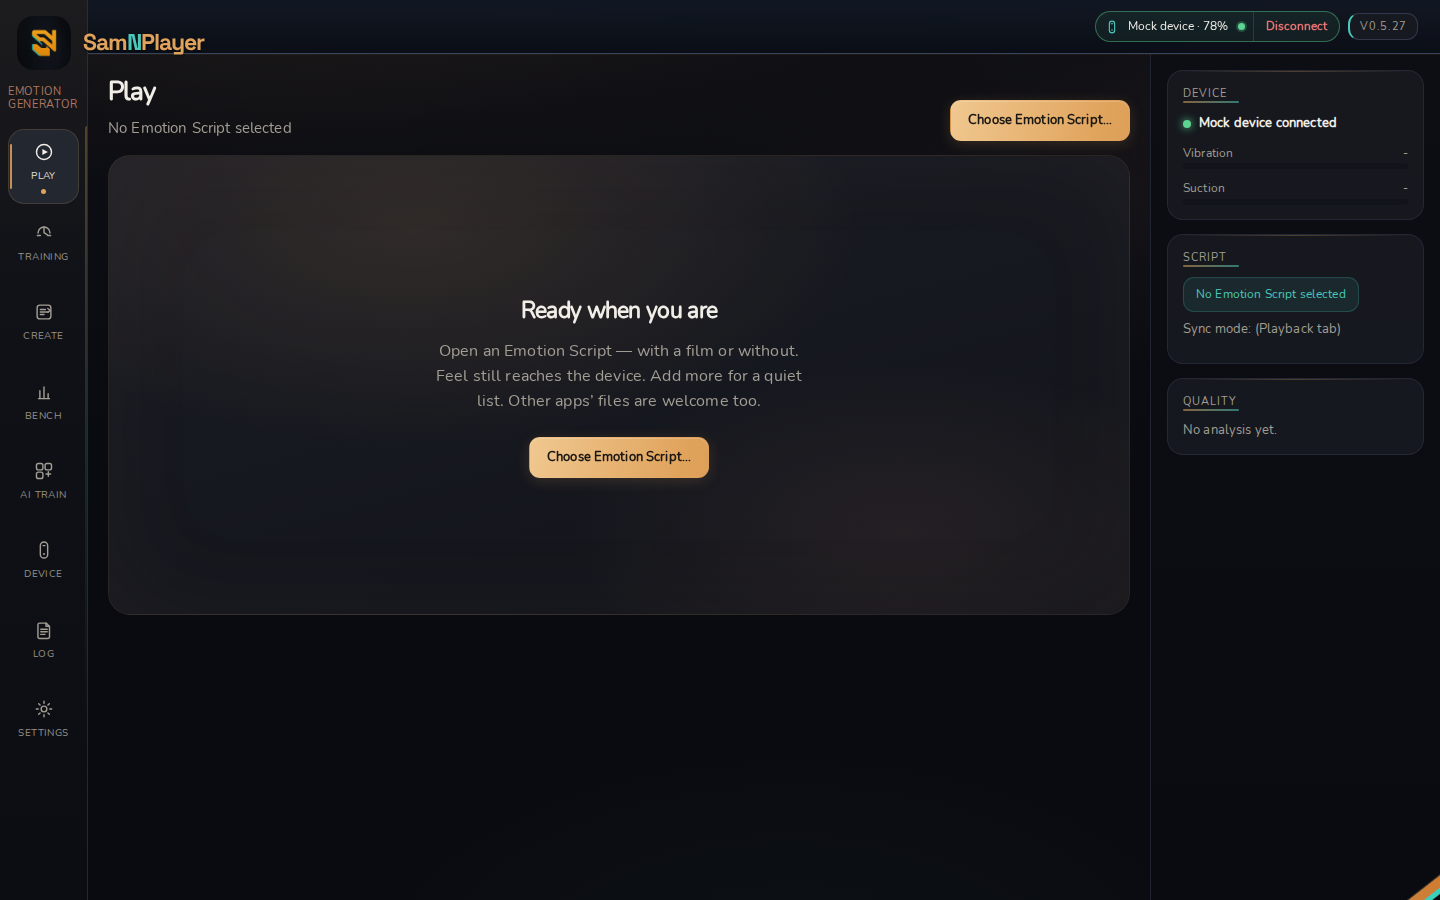
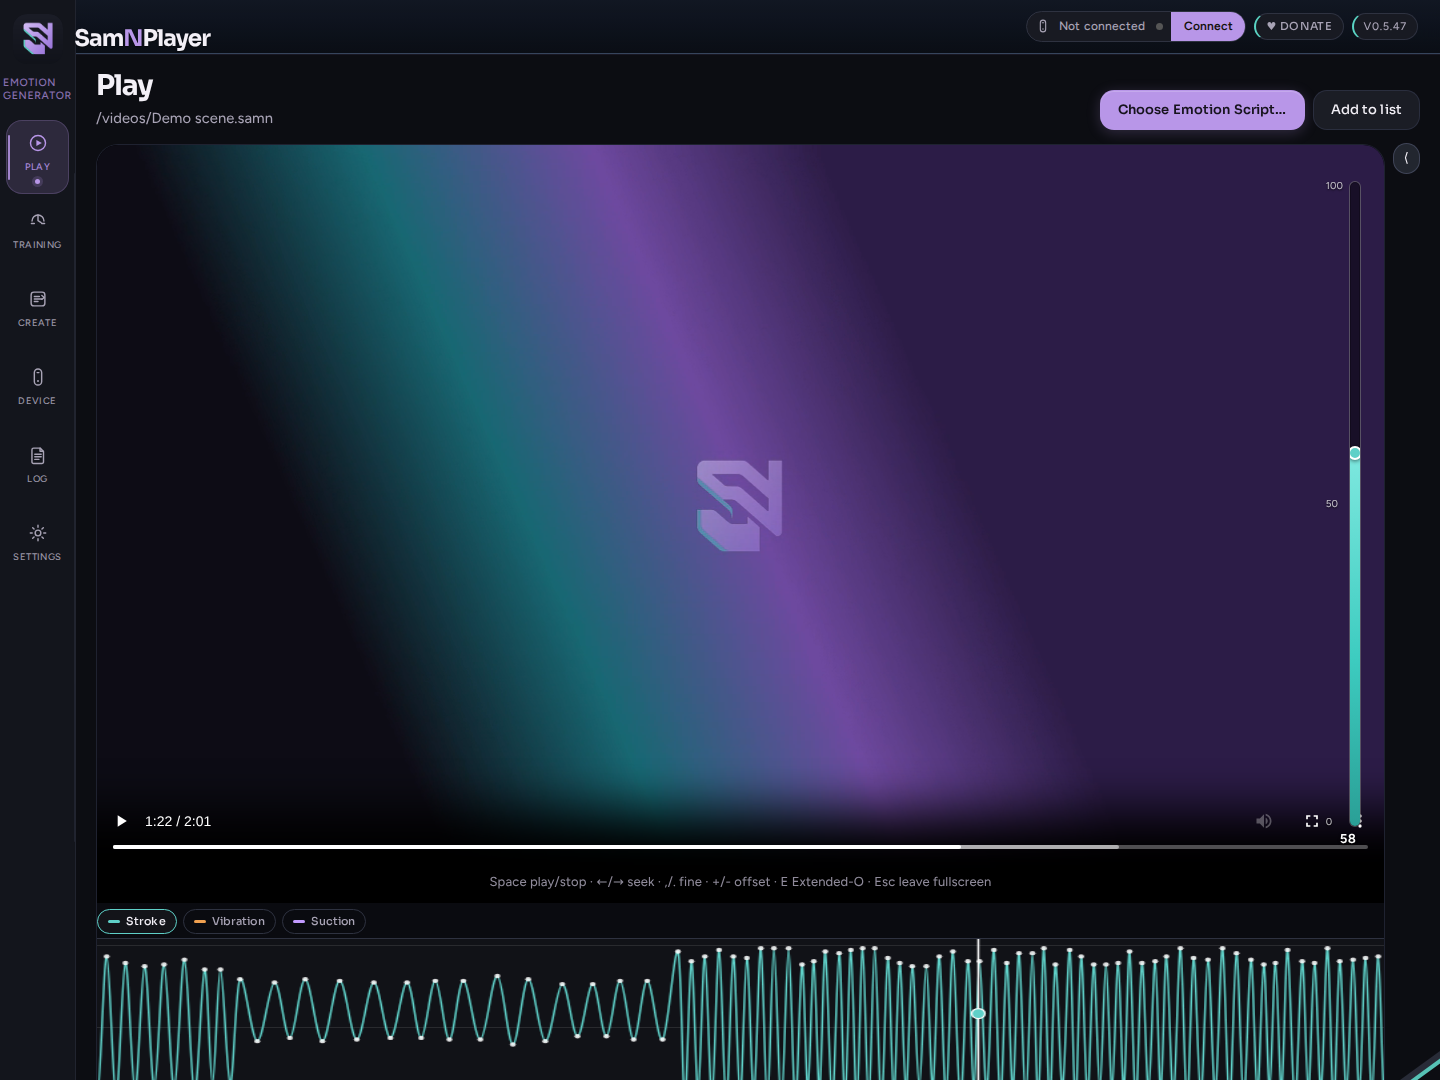
docs: refresh README, website and screenshots for the lilac GUI
- New 1440×1080 screenshots of the current GUI (Play with multi-axis
  lanes, focus mode, Create, Device, Settings/About) in docs/media and
  website/media; same file names, plus gui-multiaxis/gui-device/gui-about.
  Neutral demo video and synthetic script; no adult content.
- Lilac logo and wordmark in docs/media.
- README: tagline Play · Create · Feel, new screenshot section, Play
  bullets (big video, multi-axis), studio-only items marked, freeware.
- Website: lilac palette (was amber), title/hero copy, new screenshots.
- CHANGELOG: Play layout and multi-axis view; board: RepoRefresh.

Claude-Session: https://claude.ai/code/session_01PV7nAQSr9gAUfJHBzb1bVw

diff --git a/website/index.html b/website/index.html
@@ -3,11 +3,11 @@
 <head>
   <meta charset="utf-8" />
   <meta name="viewport" content="width=device-width, initial-scale=1" />
-  <title>SamNPlayer — Generate · Play · Train</title>
-  <meta name="description" content="Local desktop app for .samn / .funscript and SVAKOM Sam Neo 2. Play, generate, and train in one ~13 MB native window — no Electron, no cloud AI. Free — supported by donations." />
+  <title>SamNPlayer — Play · Create · Feel</title>
+  <meta name="description" content="Local desktop app for .samn / .funscript and SVAKOM Sam Neo 2. Play and create in one ~13 MB native window — no Electron, no cloud AI. Free — supported by donations." />
   <meta property="og:title" content="SamNPlayer" />
-  <meta property="og:description" content="Generate · Play · Train — local desktop for Sam Neo 2 and Funscript. Free — supported by donations." />
-  <meta property="og:image" content="media/gui-player-rail.png" />
+  <meta property="og:description" content="Play · Create · Feel — free local desktop for Sam Neo 2 and Funscript. Free — supported by donations." />
+  <meta property="og:image" content="media/gui-playback.png" />
   <link rel="icon" type="image/png" href="media/logo.png" />
   <link rel="stylesheet" href="styles.css" />
 </head>
@@ -39,7 +39,7 @@
           <img src="media/logo.png" alt="" width="72" height="72" />
           <span class="wordmark wordmark-lg"><span class="wm-sam">Sam</span><span class="wm-n">N</span><span class="wm-player">Player</span></span>
         </p>
-        <h1 class="reveal delay-1">Generate · Play · Train</h1>
+        <h1 class="reveal delay-1">Play · Create · Feel</h1>
         <p class="lede reveal delay-2">
           One local desktop app for <code>.samn</code> / <code>.funscript</code>
           and SVAKOM Sam Neo&nbsp;2 — measured scripts, first-class device control,
@@ -65,7 +65,7 @@
         </div>
         <div>
           <dt>Scope</dt>
-          <dd>Play + generate + device + training in one window</dd>
+          <dd>Play + create + device + stamina training in one window</dd>
         </div>
         <div>
           <dt>AI</dt>
@@ -81,33 +81,43 @@
         </div>
         <div>
           <dt>Quality</dt>
-          <dd>Quality Doctor, Script Doctor, golden-clip benchmark — numbers before claims</dd>
+          <dd>Quality Doctor and Script Doctor — numbers before claims</dd>
         </div>
       </dl>
     </section>
 
     <section id="product" class="section product">
       <h2>What you get</h2>
-      <p class="section-lede">Three jobs. One composition. English UI.</p>
+      <p class="section-lede">Big video, every axis in view, one calm window. English UI.</p>
 
       <figure class="shot reveal">
-        <img src="media/gui-playback.png" alt="Playback tab with video sync, heatmap, and live device meters" width="1200" height="675" loading="lazy" />
-        <figcaption>Playback — video sync or script-alone; heatmap, curve, contact vibration, playlist</figcaption>
+        <img src="media/gui-playback.png" alt="Play tab — big video, tools column, stroke curve with vibration and suction lanes" width="1440" height="1080" loading="lazy" />
+        <figcaption>Play — big video, tools in a collapsible column, stroke curve with the feel channels underneath</figcaption>
       </figure>
 
       <figure class="shot reveal">
-        <img src="media/gui-generator.png" alt="Generator tab with ROI workflow and Quality Doctor" width="1200" height="675" loading="lazy" />
-        <figcaption>Generate — mark ROI(s), pick profile / backend, Quality Doctor on the rail</figcaption>
+        <img src="media/gui-multiaxis.png" alt="Multi-axis view with Stroke, Vibration and Suction chips and colour-coded lanes" width="982" height="351" loading="lazy" />
+        <figcaption>Multi-axis view — one colour per channel; click a chip or lane to show and edit that axis</figcaption>
+      </figure>
+
+      <figure class="shot reveal">
+        <img src="media/gui-player-rail.png" alt="Play with the tools folded away — full-width video" width="1440" height="1080" loading="lazy" />
+        <figcaption>Focus mode — press T to fold the tools away; video and curve take the full width</figcaption>
+      </figure>
+
+      <figure class="shot reveal">
+        <img src="media/gui-generator.png" alt="Create tab — step-by-step Emotion Script creation" width="1440" height="1080" loading="lazy" />
+        <figcaption>Create — choose a video, find the tip, pick the feel; classical tracking, no AI install needed</figcaption>
       </figure>
 
       <figure class="shot reveal">
         <img src="media/gui-scenemap-marks.png" alt="Scene map rhythm heatmap with exclude mark" width="1200" height="900" loading="lazy" />
-        <figcaption>v0.5.31 — Scene map heatmap + exclude mark (Advanced)</figcaption>
+        <figcaption>Scene map — rhythm heatmap + exclude mark (Advanced)</figcaption>
       </figure>
 
       <figure class="shot reveal">
-        <img src="media/gui-semantic-target.png" alt="Strict AI body-point selector" width="1200" height="675" loading="lazy" />
-        <figcaption>v0.5.31 — Semantic target: expected body point, Apply required</figcaption>
+        <img src="media/gui-about.png" alt="Settings — licence, donations and About SamNPlayer" width="1440" height="1080" loading="lazy" />
+        <figcaption>Settings — EULA, voluntary donations, About</figcaption>
       </figure>
     </section>
 

diff --git a/website/styles.css b/website/styles.css
@@ -5,11 +5,11 @@
   --border: #2a3548;
   --text: #f2f5fa;
   --text-dim: #93a0b5;
-  --accent: #f3b23c;
-  --accent-hover: #ffc857;
+  --accent: #b896e8;
+  --accent-hover: #cbb0f2;
   --teal: #2fd4c4;
   --teal-soft: rgba(47, 212, 196, 0.14);
-  --accent-soft: rgba(243, 178, 60, 0.16);
+  --accent-soft: rgba(184, 150, 232, 0.16);
   --font: "Space Grotesk", "Segoe UI", system-ui, sans-serif;
   --max: 1080px;
   --ease: cubic-bezier(0.22, 1, 0.36, 1);
@@ -49,7 +49,7 @@ body {
   font-weight: 400;
   color: var(--text);
   background:
-    radial-gradient(900px 480px at 12% -10%, rgba(243, 178, 60, 0.12), transparent 55%),
+    radial-gradient(900px 480px at 12% -10%, rgba(184, 150, 232, 0.12), transparent 55%),
     radial-gradient(720px 420px at 100% 8%, rgba(47, 212, 196, 0.09), transparent 50%),
     linear-gradient(180deg, #0a1018 0%, var(--bg) 40%);
   line-height: 1.55;
@@ -80,8 +80,8 @@ code {
   letter-spacing: -0.02em;
   line-height: 1;
 }
-.wm-sam { color: var(--accent); }
-.wm-n { color: var(--teal); }
+.wm-sam { color: var(--text); }
+.wm-n { color: var(--accent); }
 .wm-player { color: var(--text); }
 .wordmark-lg { font-size: clamp(2rem, 5vw, 3.25rem); }
 .wordmark-sm { font-size: 1rem; }
@@ -225,8 +225,8 @@ code {
 }
 .btn:hover { transform: translateY(-1px); }
 .btn-primary {
-  background: linear-gradient(90deg, var(--accent), #ff8c28 55%, var(--teal));
-  color: #111;
+  background: var(--accent);
+  color: #140f1f;
 }
 .btn-primary:hover { filter: brightness(1.06); }
 .btn-ghost {

diff --git a/README.md b/README.md
@@ -5,7 +5,7 @@
 <h1 align="center">SamNPlayer</h1>
 
 <p align="center">
-  <strong>Generate · Play · Train</strong> — local desktop app for
+  <strong>Play · Create · Feel</strong> — free local desktop app for
   <code>.samn</code> / <code>.funscript</code> and SVAKOM Sam Neo&nbsp;2 / Neo&nbsp;2&nbsp;Pro
 </p>
 
@@ -100,22 +100,36 @@ not needed, it stays out.
 ## Screenshots
 
 <p align="center">
-  <img src="docs/media/gui-generator.png" alt="Generator tab — ROI workflow, device rail" width="900" />
+  <img src="docs/media/gui-playback.png" alt="Play tab — big video, tools column, stroke curve with vibration and suction lanes" width="900" />
   <br />
-  <em>Generate</em> — mark tip / contact, pick profile, Quality Doctor on the rail
+  <em>Play</em> — big video, tools in a collapsible column, stroke curve with the feel channels underneath
 </p>
 
 <p align="center">
-  <img src="docs/media/gui-playback.png" alt="Playback tab with funscript curve" width="900" />
+  <img src="docs/media/gui-multiaxis.png" alt="Multi-axis view — Stroke, Vibration and Suction chips, colour-coded lanes" width="900" />
   <br />
-  <em>Playback</em> — script-alone or video-synced; heatmap, contact vibration, playlist
+  <em>Multi-axis view</em> — one colour per channel; click a chip or a lane to show and edit that axis, the stroke stays as a faint guide
 </p>
 
 <p align="center">
-  <img src="docs/media/gui-player-rail.png" alt="Player layout with live vibration and suction meters" width="900" />
+  <img src="docs/media/gui-player-rail.png" alt="Play with the tools column collapsed — full-width video" width="900" />
   <br />
-  Live device meters, soft, Extended-O — curve and device keep running even without a film
+  <em>Focus mode</em> — press <kbd>T</kbd> (or ⟩) to fold the tools away; video and curve take the full width
 </p>
+
+<p align="center">
+  <img src="docs/media/gui-generator.png" alt="Create tab — step-by-step Emotion Script creation" width="900" />
+  <br />
+  <em>Create</em> — choose a video, find the tip, pick the feel, create — classical tracking, no AI install needed
+</p>
+
+<p align="center">
+  <img src="docs/media/gui-device.png" alt="Device tab — Sam Neo 2 connection and diagnostics" width="440" />
+  <img src="docs/media/gui-about.png" alt="Settings — licence, donations and About SamNPlayer" width="440" />
+  <br />
+  <em>Device</em> — BLE / Intiface / Mock with diagnostics · <em>Settings</em> — EULA, donations, About
+</p>
+
 ---
 
 ## What you get
@@ -123,6 +137,8 @@ not needed, it stays out.
 ### Playback
 - Real `<video>` in-app (no separate VLC window); optional **video-position sync** to the device
 - Heatmap, curve editor, chapters, O-markers, Script Doctor
+- **Big video** like FunGen2 — tools sit in a sticky right column that folds away with <kbd>T</kbd>
+- **Multi-axis view** — stroke / vibration / suction in one colour each, with clickable lanes under the curve
 - Hover **tooltips** (time + value) on curve and heatmap
 - Playlist with **shuffle** and **repeat**
 - Script-alone mode when there is no video yet
@@ -134,8 +150,8 @@ not needed, it stays out.
 - **Scene map** (Advanced): quick rhythm heatmap + exclude / source / region marks
 - Optional **local AI ROI** (ONNX) — strict expected body point, Apply required
 - Local **Go profilemodel** suggestions from Create labels (suggest-only)
-- Quality Doctor + human accept/reject → optional learned quality model
-- Golden-clip benchmark tab for repeatable FunGen comparisons
+- Quality Doctor + human accept/reject
+- *Studio build only:* learned quality model, AI training, golden-clip benchmark ([editions](docs/EDITIONS.md))
 
 ### Device & training
 - BLE, Intiface/Buttplug, and Mock transports
@@ -143,7 +159,8 @@ not needed, it stays out.
 - Training tab: stop-start / plateau, multi-phase scripts, live dual ring + clip motion, session history
 
 ### Desktop craft
-- Emotion look (Sora / Figtree), English product language
+- Calm lilac look, English product language
+- Freeware with EULA — no licence key; voluntary donations keep the project alive
 - Window min-size, ARIA tabs, ERROR toast → Log
 - Auto-update from GitHub Releases with checksum verification
 

diff --git a/docs/AGENT_COORD.md b/docs/AGENT_COORD.md
@@ -109,7 +109,8 @@ next big theme. Prefer cleanup + focus over parallel feature sprawl.
 | Branding | Claude | #469 | **Announced 11 Oct, before work (Owner: say first so ChatGPT can help):** SN logo B redrawn as vector in lilac + teal edge → `build/appicon.png` 1024, `build/windows/icon.ico` 16–256, `frontend/src/assets/images/logo-universal.png`, `website/media/logo.png`; calmer palette in `style.css` (one accent lilac, flat surfaces instead of most of the 61 gradients, single-colour wordmark, teal/feel only for data); new Settings **About SamNPlayer** (logo, version, edition, EULA/notices, donate, partner graphic SN 🤝 figures of the "Sex for him" site, link once Owner sends the URL). Files touched: `style.css`, `index.html`, `settings.js`, `legal.js`, icon files, website logo. **ChatGPT:** welcome to review copy/visuals on the PR; StudioEmbed is yours on your own branch (see #467 comment) | **DONE** (merged #469) |
 | PlayLayout | Claude | `claude/keen-davinci-t2ysrs` | Big video like FunGen2: info column hidden on Play (`body[data-tab]`), tools column 340 px sticky + scrollable, collapsible via ⟩ button or **T** (remembered), video up to 70–78 vh; all IDs unchanged. Test `pb_tools_toggle_test.py` | **DONE** (merged #470) |
 | MultiAxisCurves | Claude | `claude/keen-davinci-t2ysrs` | **Announced 11 Oct, before work:** Play gets colour-coded axis lanes under the main curve (Vibration amber, Suction lilac; filled area + playhead, zoom shared), a legend row with clickable axis chips (= `#pb-axis`), main curve takes the colour of the edited axis with the stroke curve as faint ghost behind it. Create has no curve view (hands off to Play), so Play only. Files: `playback.js`, `style.css`, new test `pb_axis_lanes_test.py`. **ChatGPT:** visual review welcome on the PR | **DONE** (merged #472) |
-| GUIAudit | Claude | `claude/keen-davinci-t2ysrs` | Owner 11 Oct: final check of GUI wiring, modularity and AI anchoring → `docs/GUI_AUDIT_2026-10.md` (docs only). Follow-ups proposed there (binding cleanup, splitting playback.js / generator.js) are **not** claimed — free for anyone after Owner OK | **CLAIMED** |
+| GUIAudit | Claude | `claude/keen-davinci-t2ysrs` | Owner 11 Oct: final check of GUI wiring, modularity and AI anchoring → `docs/GUI_AUDIT_2026-10.md` (docs only). Follow-ups proposed there (binding cleanup, splitting playback.js / generator.js) are **not** claimed — free for anyone after Owner OK | **DONE** (merged #473) |
+| RepoRefresh | Claude | `claude/keen-davinci-t2ysrs` | **Announced 11 Oct on #468 before work:** new GUI screenshots (`docs/media` + `website/media`, same names + `gui-multiaxis`, `gui-device`, `gui-about`), lilac logo/wordmark, README tagline/screenshots/Playback bullets, website lilac palette + screenshot section, CHANGELOG lines for #470/#472. Not touched: README release/download sections (ChatGPT #468). Training screenshot deliberately **not** published (shows the pixel clip) | **CLAIMED** |
 | AudioVib | Claude | [#462](https://github.com/funfunpayer/SamNPlayer/pull/462) merged (`a7c6e1d`) | **Owner 9 Oct:** Play vibration from video audio only, switchable — Settings → Play + Play panel `playback.audio_vibration` (default **off**); suction stays on script; no file changes. Also fixed stroke-preview rate (2–3× too high at turning points) | **DONE** |
 | CursorLane | Claude | standing (Owner 10 Oct) | Cursor's open items now Claude's: GUI follow-ups, board hygiene, merges, releases (release/tag still on Owner ask). V1 `.vlm.json`→marks superseded by contact-points + candidates (see `VLM_TEACHER_PLAN.md`) | **ACTIVE** |
 | AudioCancel | ChatGPT | [#420](https://github.com/funfunpayer/SamNPlayer/pull/420) merged (`82062c7`) | Propagate Generate cancellation into post-hoc ffmpeg audio check; regression test; no defaults | **DONE** |

diff --git a/CHANGELOG.md b/CHANGELOG.md
@@ -19,6 +19,15 @@ measurement history behind each entry; this file is the short version for
 
 ### Added
 
+- **Bigger Play view (FunGen2-style)** — the info column is hidden on
+  Play, the tools sit in a sticky right column, and **T** (or ⟩) folds
+  them away so video and curve take the full width (remembered).
+- **Multi-axis view in Play** — stroke teal, vibration amber, suction
+  lilac everywhere; legend chips and colour-coded lanes under the curve
+  switch the shown/edited axis, the stroke stays as a faint guide.
+- **Refreshed README and website** — new screenshots of the current GUI,
+  lilac wordmark and website palette.
+
 - **Settings → About SamNPlayer** — logo, version, edition, EULA version
   and a partner graphic (SamNPlayer 🤝 the "Sex for him" site); the
   website link appears once its address is set.
